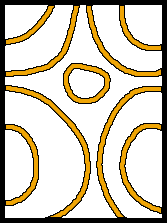
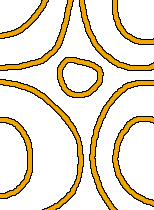
Close #2

diff --git a/src/index.css b/src/index.css
@@ -1,6 +1,6 @@
 :root {
-  --card-width: 167px;
-  --card-height: 223px;
+  --card-width: 150px;
+  --card-height: 200px;
 }
 
 body {
@@ -30,14 +30,18 @@ label {
 }
 
 .card {
+  box-sizing: border-box;
   position: relative;
   display: inline-flex;
   justify-content: center;
   align-items: center;
   width: var(--card-width);
   height: var(--card-height);
-  border: 1px solid black;
+  border: 7px solid black;
   border-radius: 5px;
+  background-repeat: no-repeat;
+  background-position: center;
+  background-size: cover;
 }
 
 .card img {
@@ -64,6 +68,7 @@ label {
 
 .card-area {
   display: grid;
+  justify-content: center;
   grid-template-columns: repeat(4, calc(var(--card-width)));
   gap: 10px;
 }
@@ -71,4 +76,52 @@ label {
 .ranking {
   display: grid;
   grid-template-columns: repeat(2, 1fr);
+}
+
+.play {
+  display: grid;
+  justify-content: center;
+  justify-items: center;
+  grid-template-columns: calc(var(--card-width) * 4 + 70px) 200px;
+  grid-template-rows: calc(var(--card-height) * 3 + 65px - 100px - 20px) 100px;
+  grid-template-areas:
+    "main sub"
+    "main button";
+  gap: 20px;
+}
+
+.main,
+.sub,
+.button {
+  width: 100%;
+  height: 100%;
+  background-color: lightgray;
+  border-radius: 10px;
+}
+
+.main {
+  box-sizing: border-box;
+  grid-area: main;
+  padding: 20px 0;
+}
+
+.sub {
+  align-self: end;
+  grid-area: sub;
+  display: flex;
+  flex-direction: column-reverse;
+}
+
+.button {
+  grid-area: button;
+}
+
+.button button {
+  align-self: center;
+  width: 200px;
+  height: 100px;
+  border-radius: 5px;
+  border: none;
+  background-color: transparent;
+  font-size: x-large;
 }

diff --git a/src/pages/Single.js b/src/pages/Single.js
@@ -1,13 +1,42 @@
-import React from "react";
+import React, { useState, useEffect } from "react";
 import PropTypes from "prop-types";
 
+import CardArea from "../components/CardArea";
+import Ranking from "../components/Ranking";
+import { WAITING, PLAYING, ENDED } from "../constants/playState";
+
 function Single({ onHomeButtonClick }) {
+  const [state, setState] = useState(WAITING);
+
+  const handleStartButtonClick = function () {
+    if (state === WAITING) {
+      setState(PLAYING);
+    } else {
+      setState(WAITING);
+    }
+  };
+
   return (
     <div>
-      <h1>혼자하기</h1>
-      <button type="button" onClick={onHomeButtonClick}>
-        home
-      </button>
+      <div className="header">
+        <h1>혼자하기</h1>
+        <button type="button" onClick={onHomeButtonClick}>
+          home
+        </button>
+      </div>
+      <div className="play">
+        <div className="main">
+          {state === WAITING && <Ranking />}
+          {state === PLAYING && <CardArea />}
+        </div>
+        <div className="sub">
+        </div>
+        <div className="button">
+          <button type="button" onClick={handleStartButtonClick}>
+            {state === WAITING ? "START" : "CANCEL"}
+          </button>
+        </div>
+      </div>
     </div>
   );
 }

diff --git a/src/constants/playState.js b/src/constants/playState.js
@@ -1,0 +1,5 @@
+const WAITING = "waiting";
+const PLAYING = "playing";
+const ENDED = "ended";
+
+export { WAITING, PLAYING, ENDED };
